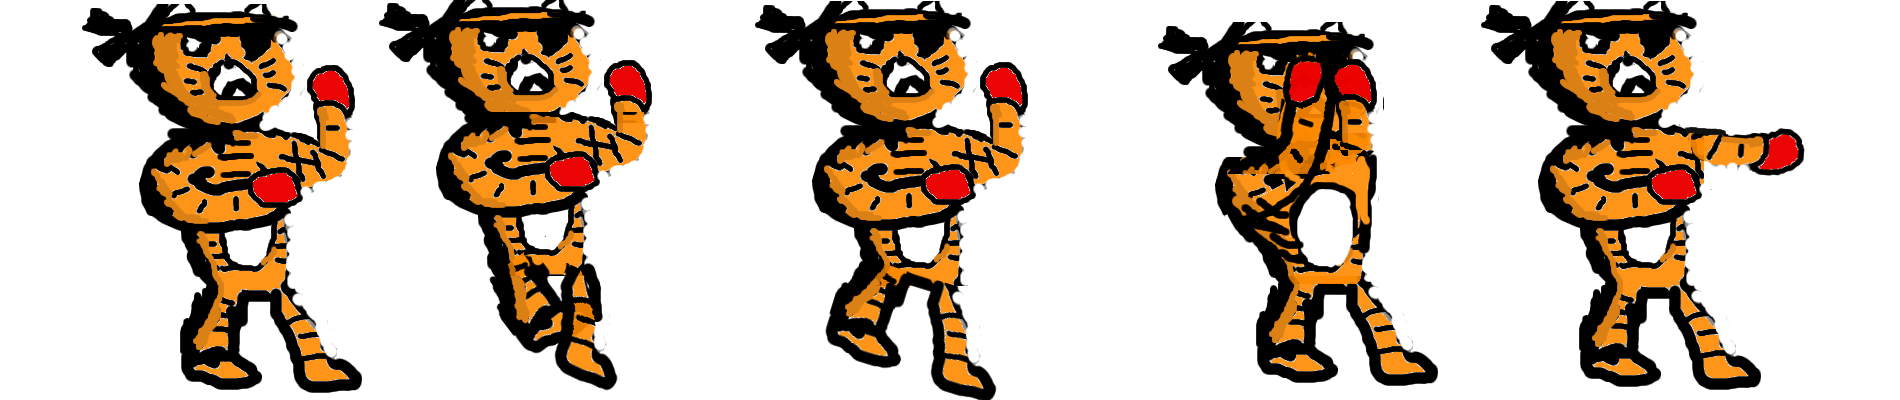
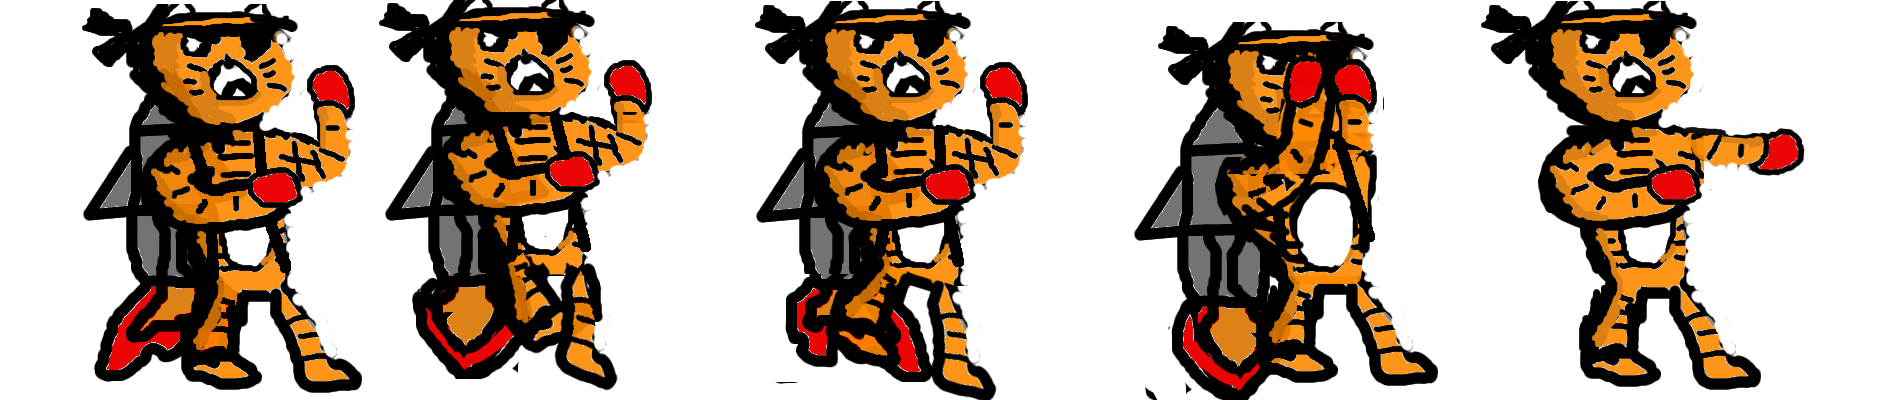
updates

diff --git a/js/main.js b/js/main.js
@@ -2,7 +2,7 @@ window.onload = function() {
     
     "use strict";
     
-    var game = new Phaser.Game( 1200, 400, Phaser.CANVAS, 'game', { preload: preload, create: create, update: update } );
+    var game = new Phaser.Game( 1200, 800, Phaser.CANVAS, 'game', { preload: preload, create: create, update: update } );
     
     function preload() {
         // Load an image and call it 'carsprite'.
@@ -17,6 +17,7 @@ window.onload = function() {
 		game.load.audio('victory', 'assets/victory.ogg');
 		game.load.audio('lose', 'assets/lose.ogg');
 		game.load.image( 'hired', 'assets/BGcarwin.png');
+		game.load.spritesheet('cats', 'assets/catsheet3.png', 362, 400);
     }
     
 	var win;
@@ -45,15 +46,16 @@ window.onload = function() {
 	var bg;
 	var road;
 	var lose;
+	var cooldown = 0;
     function create() {
-		bg = game.add.tileSprite(0, 0, 1200, 400, 'bg');
+		bg = game.add.tileSprite(0, 0, 1200, 800, 'bg');
 		bg.fixedToCamera=true;
-		road = game.add.tileSprite(0, 0, 100600, 400, 'road');
-		game.world.setBounds(0, 0, 100600, 400);
+		road = game.add.tileSprite(0, 0, 1200, 14000, 'road');
+		game.world.setBounds(0, 0, 1200, 14000);
         // Create a sprite at the center of the screen using the 'carsprite' image.
-        car = game.add.sprite( game.world.centerX - 3000, game.world.centerY, 'carsprite' );
-		car.width = 200;
-		car.height = 100;
+        car = game.add.sprite( game.world.centerX , 7000, 'cats' );
+		car.width = 170;
+		car.height = 170;
         // so it will be truly centered.
 		//car.animations.add('carsprite2', true);
 		
@@ -62,7 +64,8 @@ window.onload = function() {
         // Turn on the arcade physics engine for this sprite.
         game.physics.enable( car, Phaser.Physics.ARCADE );
 		
-		car.animations.add('drive', [0,1,2],7,true);
+		car.animations.add('fly', [0,1,2],7,true);
+		car.animations.add('boost',[3]);
 		
 		
 		// creating npc cars
@@ -114,6 +117,7 @@ window.onload = function() {
 		music.play();
 		cursors = game.input.keyboard.createCursorKeys();
 		jump = game.input.keyboard.addKey(Phaser.Keyboard.SPACEBAR);
+		//game.camera.follow(car);
     }
     
     function update() {
@@ -123,32 +127,16 @@ window.onload = function() {
 			car.body.y = 20;
 			}
 		
-		game.camera.x = car.body.x - 150;
+		game.camera.y = car.body.y - 550;
+		if (car.onFloor){
+			car.kill();}
 		//controlling different speeds
-		car2.body.velocity.x = 50 * (tenth +1);
+		/*car2.body.velocity.x = 50 * (tenth +1);
 		car3.body.velocity.x = 50 * (tenth +2);
 		car4.body.velocity.x = 50 * (tenth +3);
-		car5.body.velocity.x = 70 * (tenth +4);
+		car5.body.velocity.x = 70 * (tenth +4);*/
 		
-		//flying car physics
-		if (!car5.body.onFloor()){
-			car5.body.velocity.y = 120;
-			if(game.physics.arcade.collide(car5,car)){
-				car5.body.velocity.y = -910;
-				car5.body.velocity.x = 310;
-				}
-			}
-		if (!car4.body.onFloor()){
-			if(game.physics.arcade.collide(car4,car)){
-				car4.body.velocity.y = -910;
-				car4.body.velocity.x = 310;
-				}
-			}
 		
-		if (!carswitch){
-			car4.body.velocity.y = -100;
-			
-			}
 		//reuse cars
 		if (car.body.x > car2.body.x + 1500){
 			car2.loadTexture('carsprite2');
@@ -201,7 +189,7 @@ window.onload = function() {
 				}
 			}
 		
-		car.animations.play('drive');
+		car.animations.play('fly');
        
 		game.physics.arcade.collide(car2, car);
 		game.physics.arcade.collide(car3, car);
@@ -210,15 +198,7 @@ window.onload = function() {
 		game.physics.arcade.collide(car3, car4);
 		game.physics.arcade.collide(car5, car4);
 		
-		if (car.body.velocity.y == 500)
-			{
-				height = false;
-				car.body.velocity.y = 0;
-			}
-		if (height){
-			car.body.velocity.y += 25;
-			
-		}
+		
 		// checking if car is moving left or right, and if the player wants to accellerate
 		if (car.body.velocity.x < 0 && cursors.left.isDown && car.body.velocity.x > -1800){
 			car.body.velocity.x *= 1.1;
@@ -284,21 +264,30 @@ window.onload = function() {
 			car.body.y -=10;
 			}
 			// starting a jump
-		if (jump.isDown && car.body.onFloor() || jump.isDown && car.body.touching.down)
-    {
-        car.body.velocity.y = -750;
-		doublejump = true;
+		if (jump.isDown && cooldown == 0){ //&& car.body.onFloor() || jump.isDown && car.body.touching.down){
+        car.body.velocity.y = -550;
+		if(!vroom.isPlaying){
 		vroom.play();
+		}
+		doublejump = true;
     }
-		if (doublejump && cursors.up.isDown){
-			car.body.velocity.y = -550;
+		if (cooldown != 0){
+			car.animations.play('boost');
+			cooldown -= 1;
+			if (cooldown < 20){
+				car.body.velocity.y = -550;
+				}
+			}
+		else{
+			car.animations.play('fly');
+			}
+		if (doublejump && cursors.up.isDown && cooldown == 0){
+			car.body.velocity.y *= 3;
+			car.body.velocity.x *= 1.3;
+			cooldown = 45;
 			doublejump = false;
 			vroom.play();
 		}
-		if (!car.body.onFloor()){
-			car.body.velocity.y +=1;
-			if (car.body.velocity.y > 0){
-			car.body.velocity.y *= 1.1;}
-			}
+		
 		}
-    }
+}
